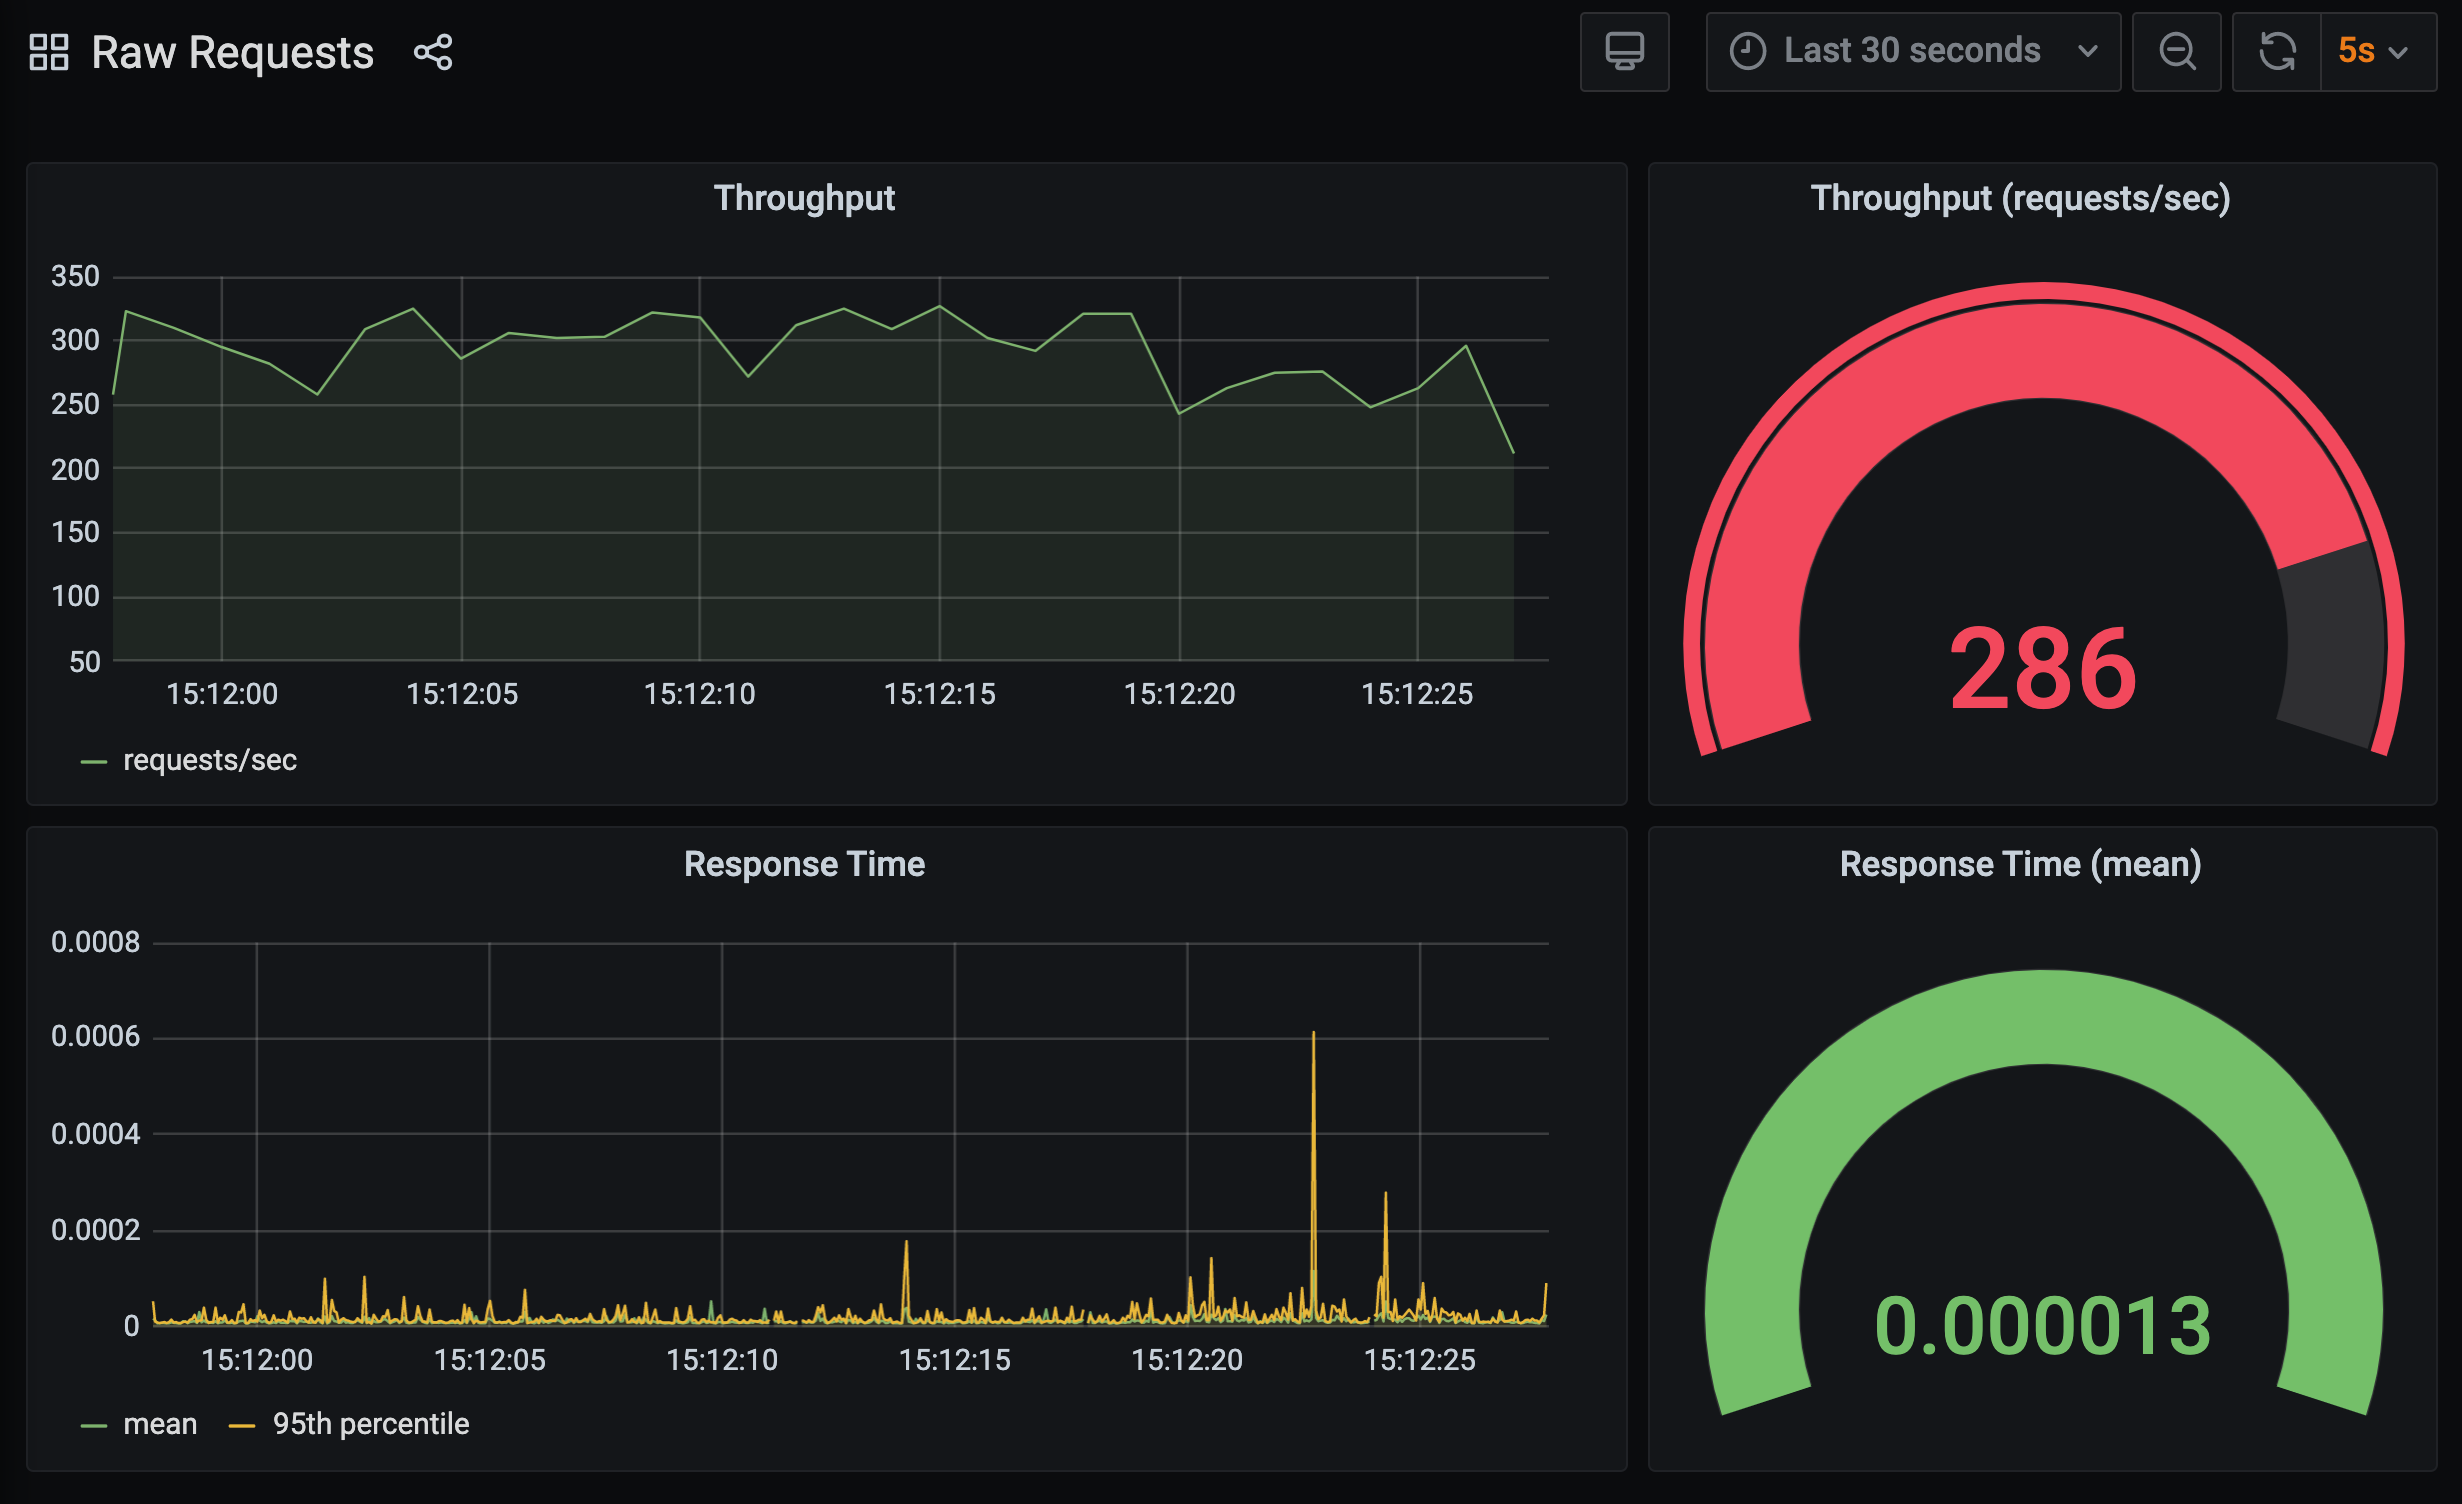
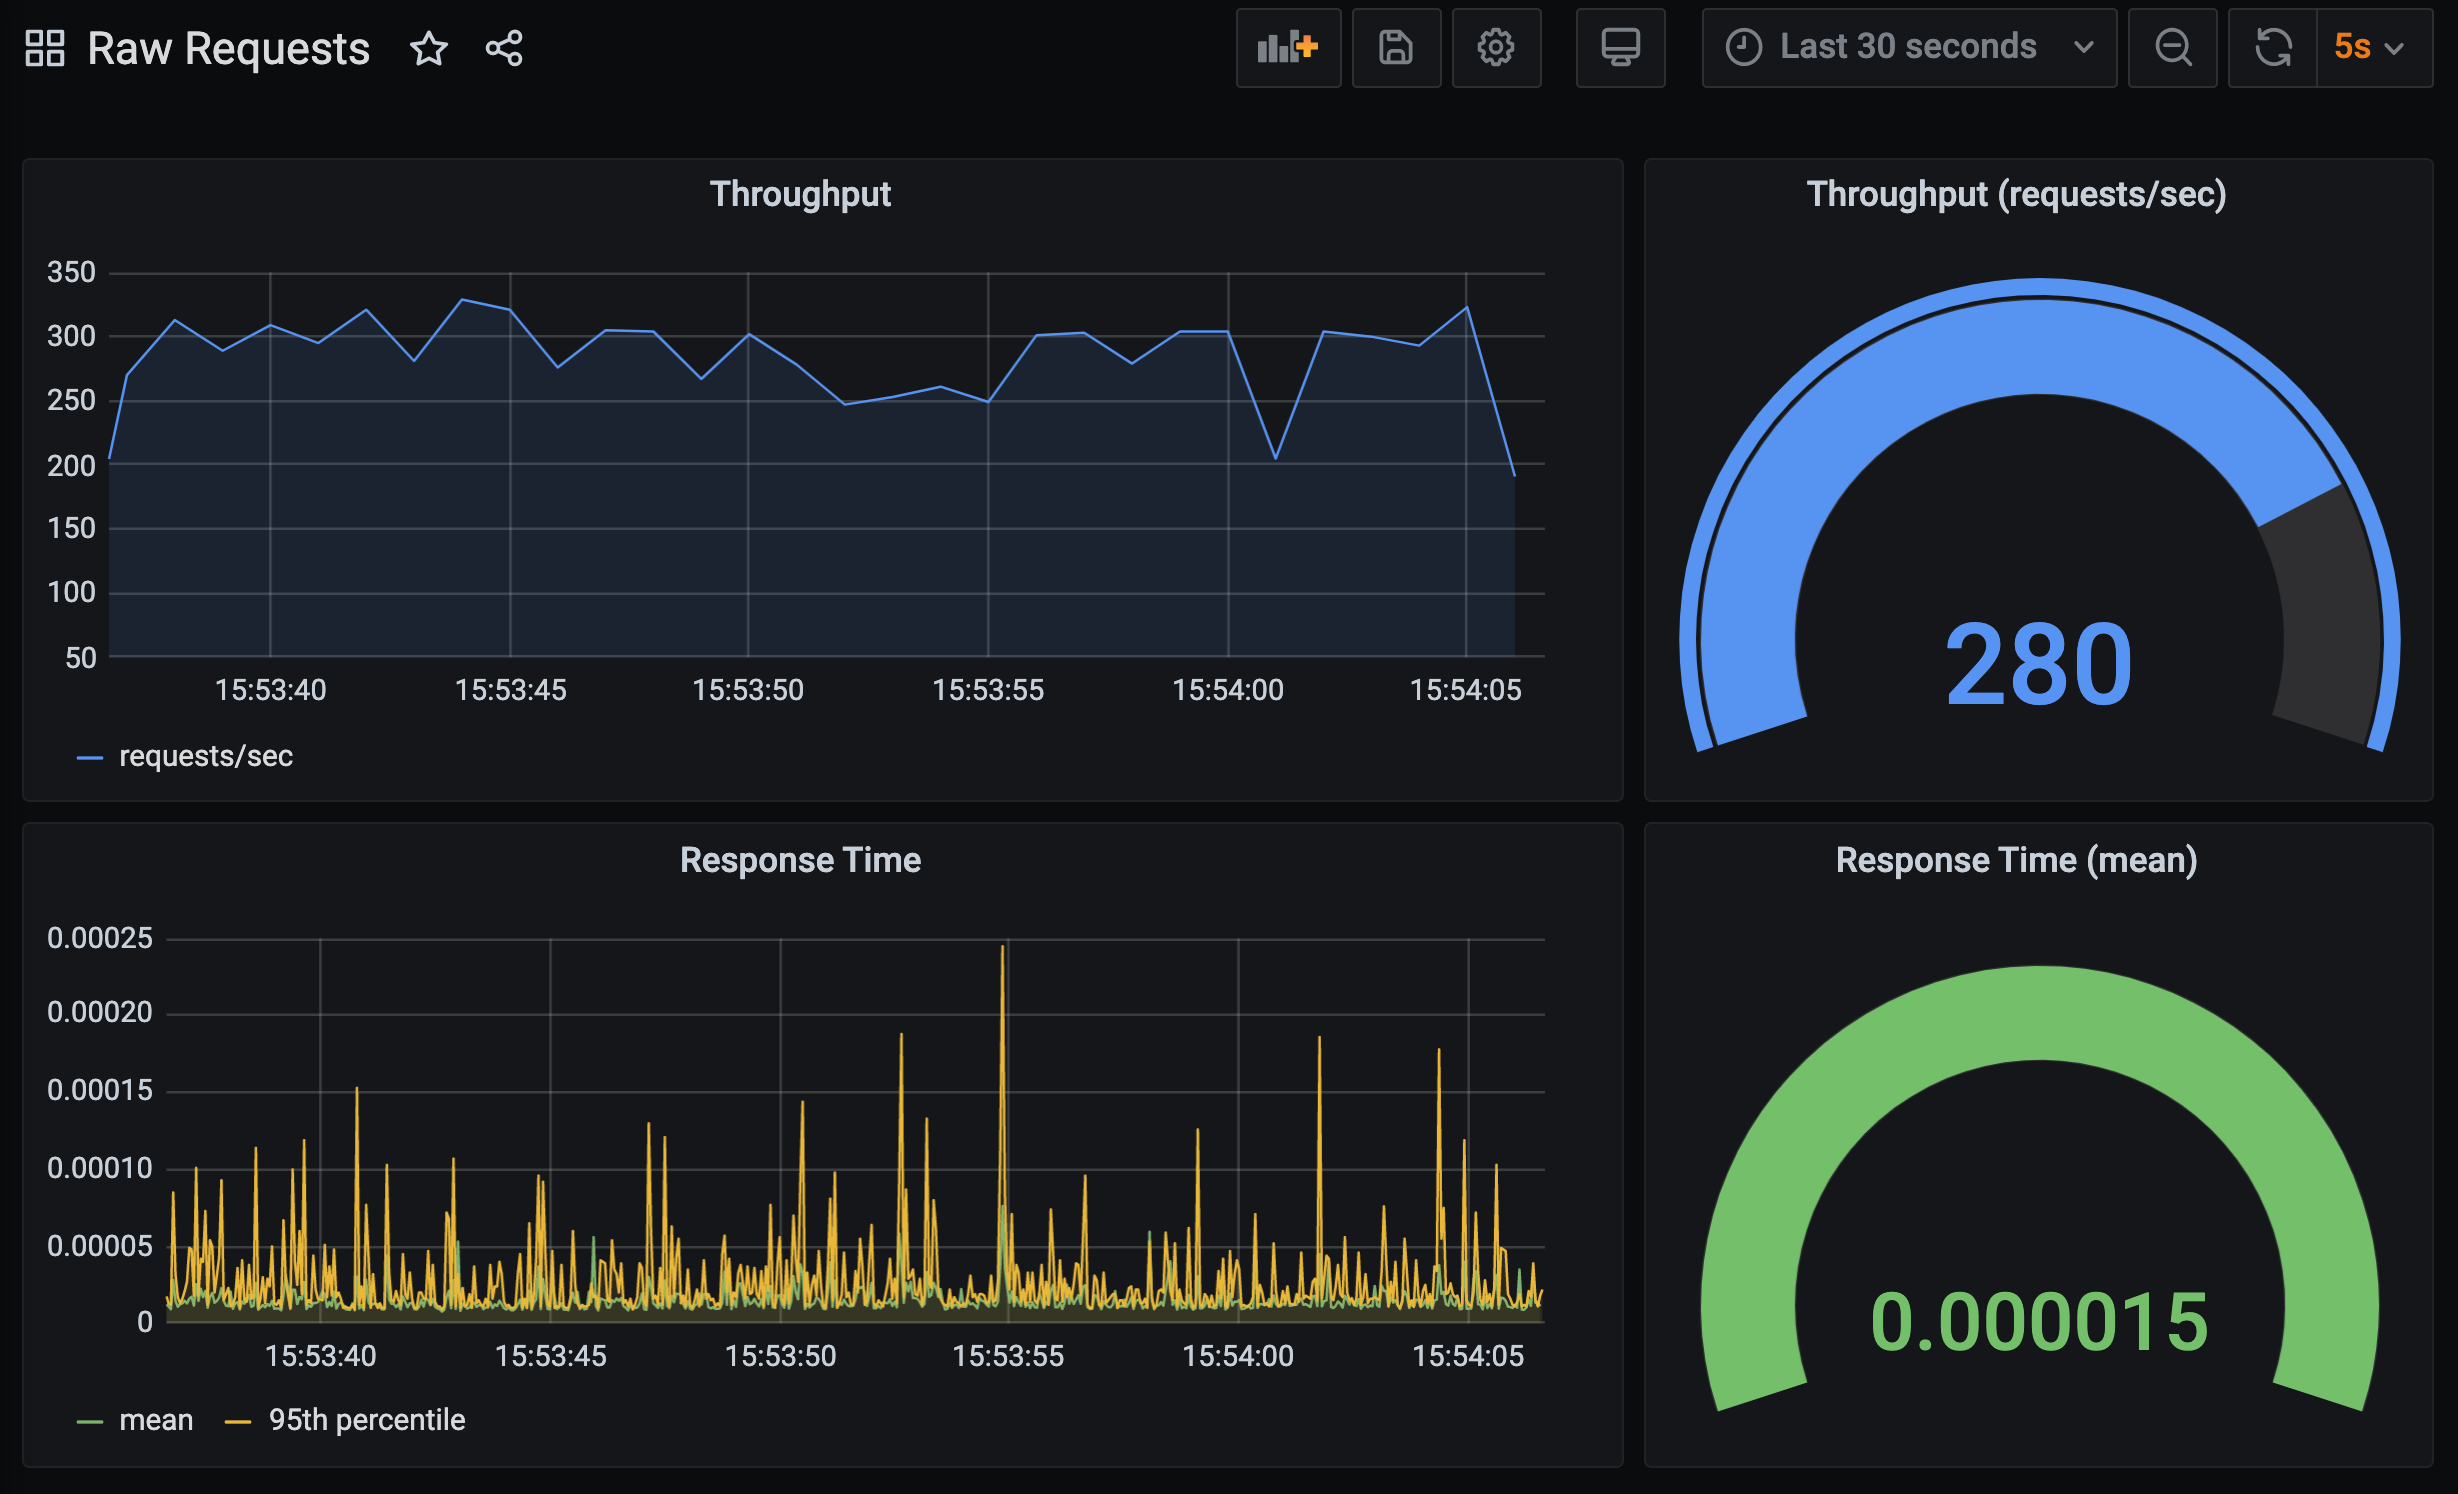
Update dashboard and example.

diff --git a/exercises/hello-world-v3/wsgi-1.py b/exercises/hello-world-v3/wsgi-1.py
@@ -11,6 +11,6 @@ def application(environ, start_response):
                         ('Content-Length', str(len(output)))]
     start_response(status, response_headers)
 
-    time.sleep(0.005)
+    time.sleep(0.05)
 
     yield output

diff --git a/workshop/content/exercises/03-timing-decorator.md b/workshop/content/exercises/03-timing-decorator.md
@@ -29,7 +29,7 @@ Search for the implementation of the decorator.
 ```editor:execute-command
 command: workbench.action.findInFiles
 args:
-- query: "def function_call\(.*\):"
+- query: "def function_call\\(.*\\):"
   filesToInclude: hello-world-v2/metrics.py
   isRegex: true
 ```
@@ -41,7 +41,7 @@ The result is that a metric corresponding to each call is reported into InfluxDB
 ```editor:execute-command
 command: workbench.action.findInFiles
 args:
-- query: "client.write_points\(.*"
+- query: "client.write_points\\(.*"
   filesToInclude: hello-world-v2/metrics.py
   isRegex: true
 ```
@@ -66,7 +66,7 @@ name: Grafana
 url: {{ingress_protocol}}://{{session_namespace}}-grafana.{{ingress_domain}}/d/raw-requests?orgId=1&refresh=5s
 ```
 
-As the chart fills out, you should see something like following.
+As the charts fill out, you should see something like following.
 
 ![](hello-world-v2-raw-requests.png)
 
@@ -76,7 +76,7 @@ This is the first trap of performing benchmarking of web applications. The resul
 
 Further, in this case we are running the benchmarking tool on the same host as where the application is running, meaning the benchmarking tool is stealing away CPU cycles that could have been used by the web application, thus affecting its performance.
 
-There are various other mistakes one can make when trying to perform benchmarking. We will touch on some more later, but right now we have an even bigger problem, which is our decorator isn't actually going to always work.
+There are various other mistakes one can make when trying to perform benchmarking. We will touch on some more later, but right now we have an even bigger problem, which is our decorator isn't actually going to always work properly, with it recording the times we would expect.
 
 Stop `bombardier` if it is still running, as well as the WSGI application.
 
